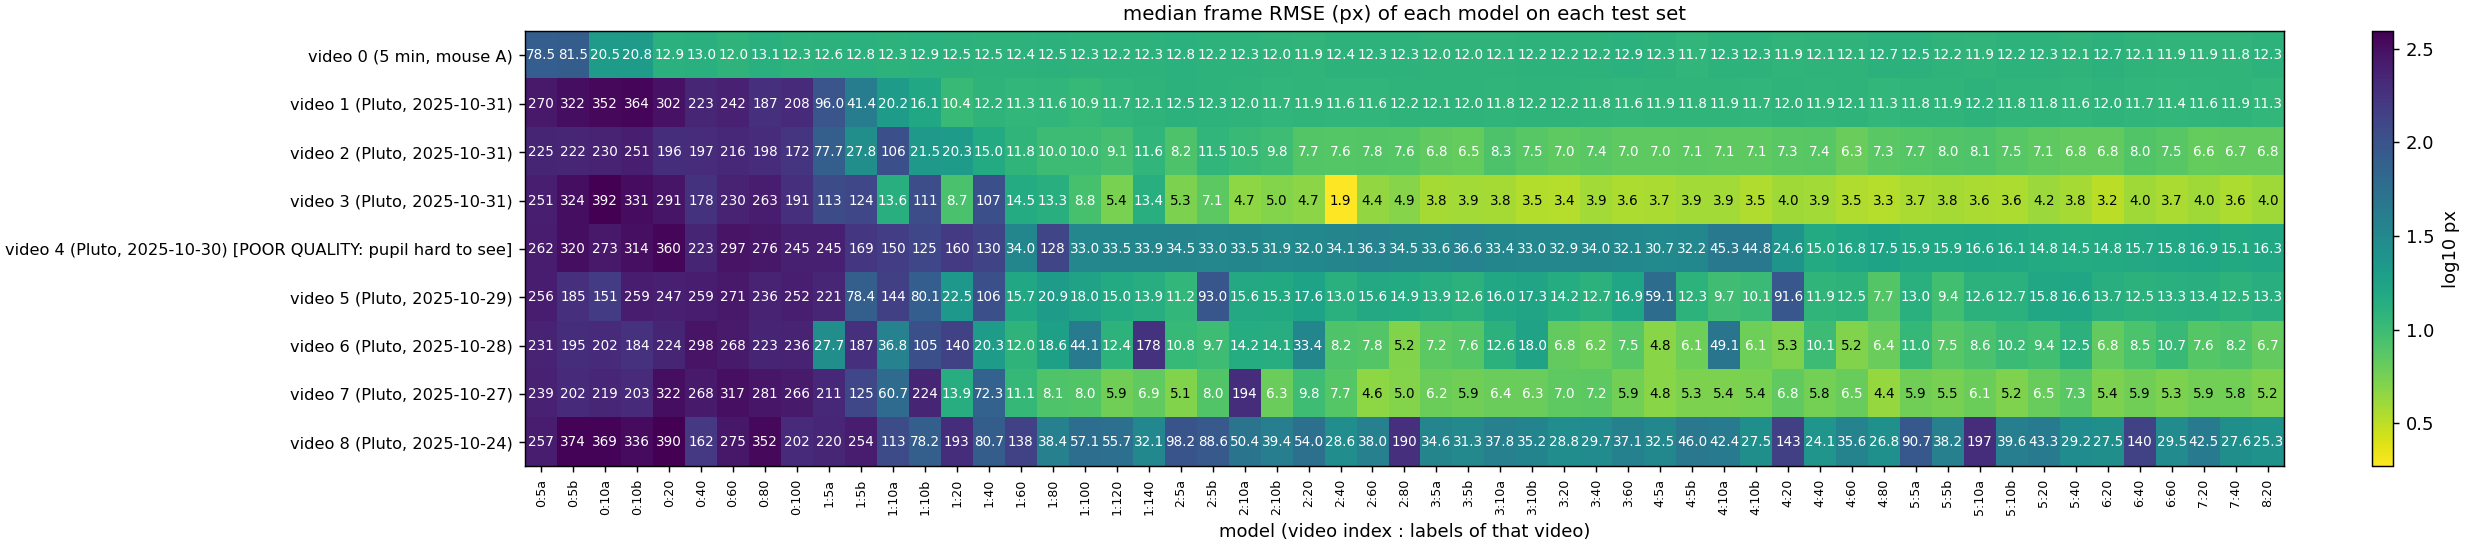
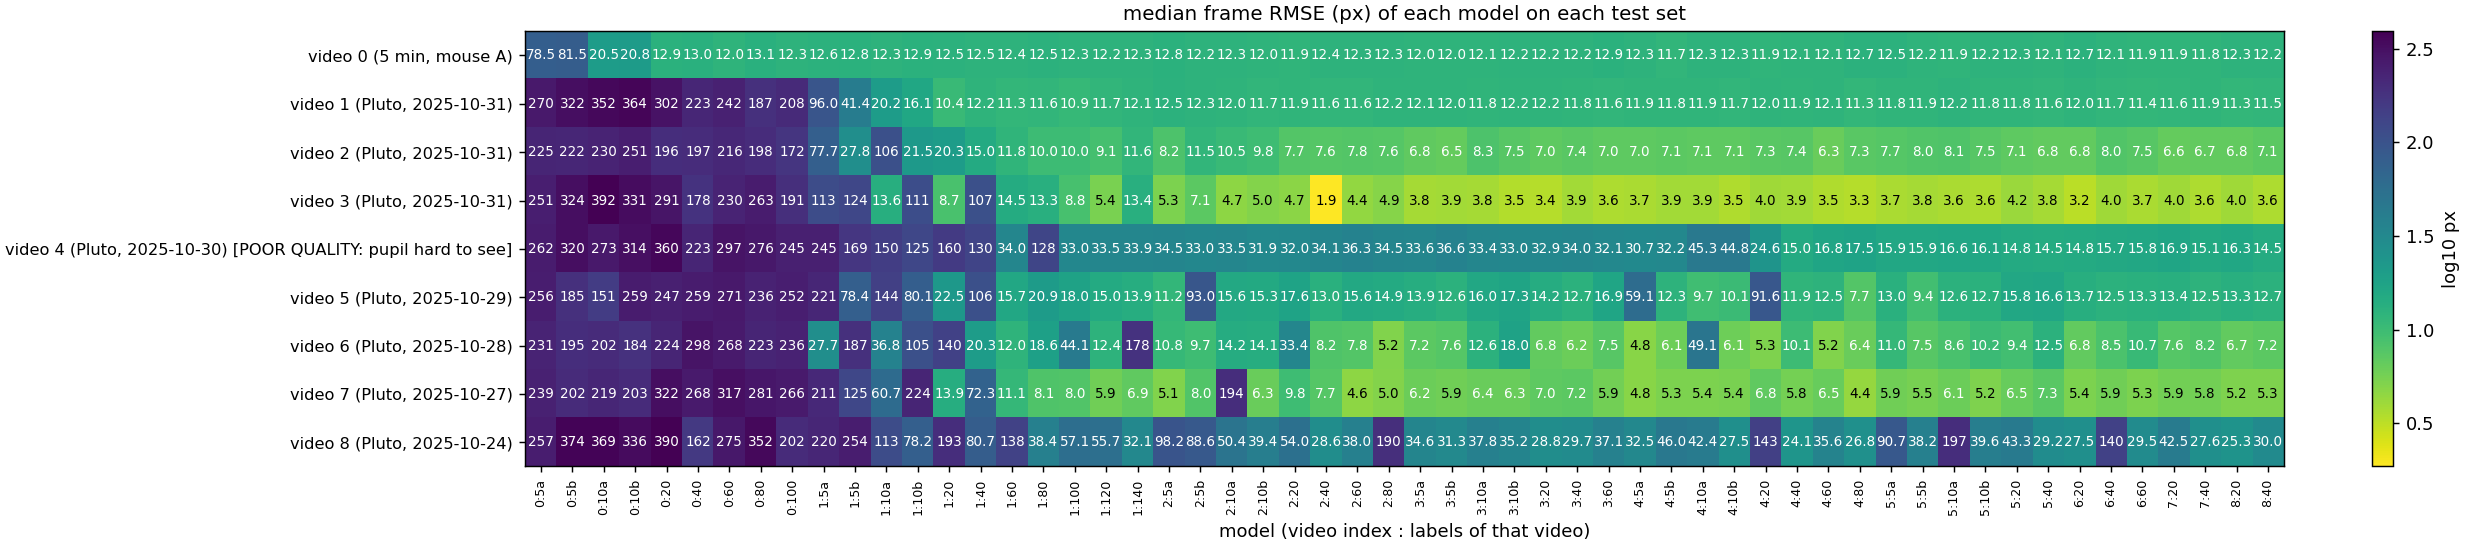
Video 8 v2: batch03 selected (8734 of 57158 pool frames flagged); back-test of model 912 added

Changed region(s): [[0.2182, 0.1557, 0.9352, 0.9652], [0.2182, 0.0623, 0.904, 0.1245]]

diff --git a/v2_new_pupil_top_video_scaling/8_20251024_Pluto_spont1/results/README.md b/v2_new_pupil_top_video_scaling/8_20251024_Pluto_spont1/results/README.md
@@ -10,4 +10,4 @@ model (711) and corrected. Training set of every step = videos 0-3 + video 4 run
 |---|---|---|---|---|---|
 | 0 (video-6 20-label model 711, applied unchanged) | 27.46 px | 51.3 | 14% | 59% | – |
 | 20 (shuffle 911) | 25.34 px | 50.6 | 14% | 68% | 9741 of 57158 (17.0%) |
-| 40 (shuffle 912) | 30.03 px | 50.4 | 12% | 89% | pending |
+| 40 (shuffle 912) | 30.03 px | 50.4 | 12% | 89% | 8734 of 57158 (15.3%) |
